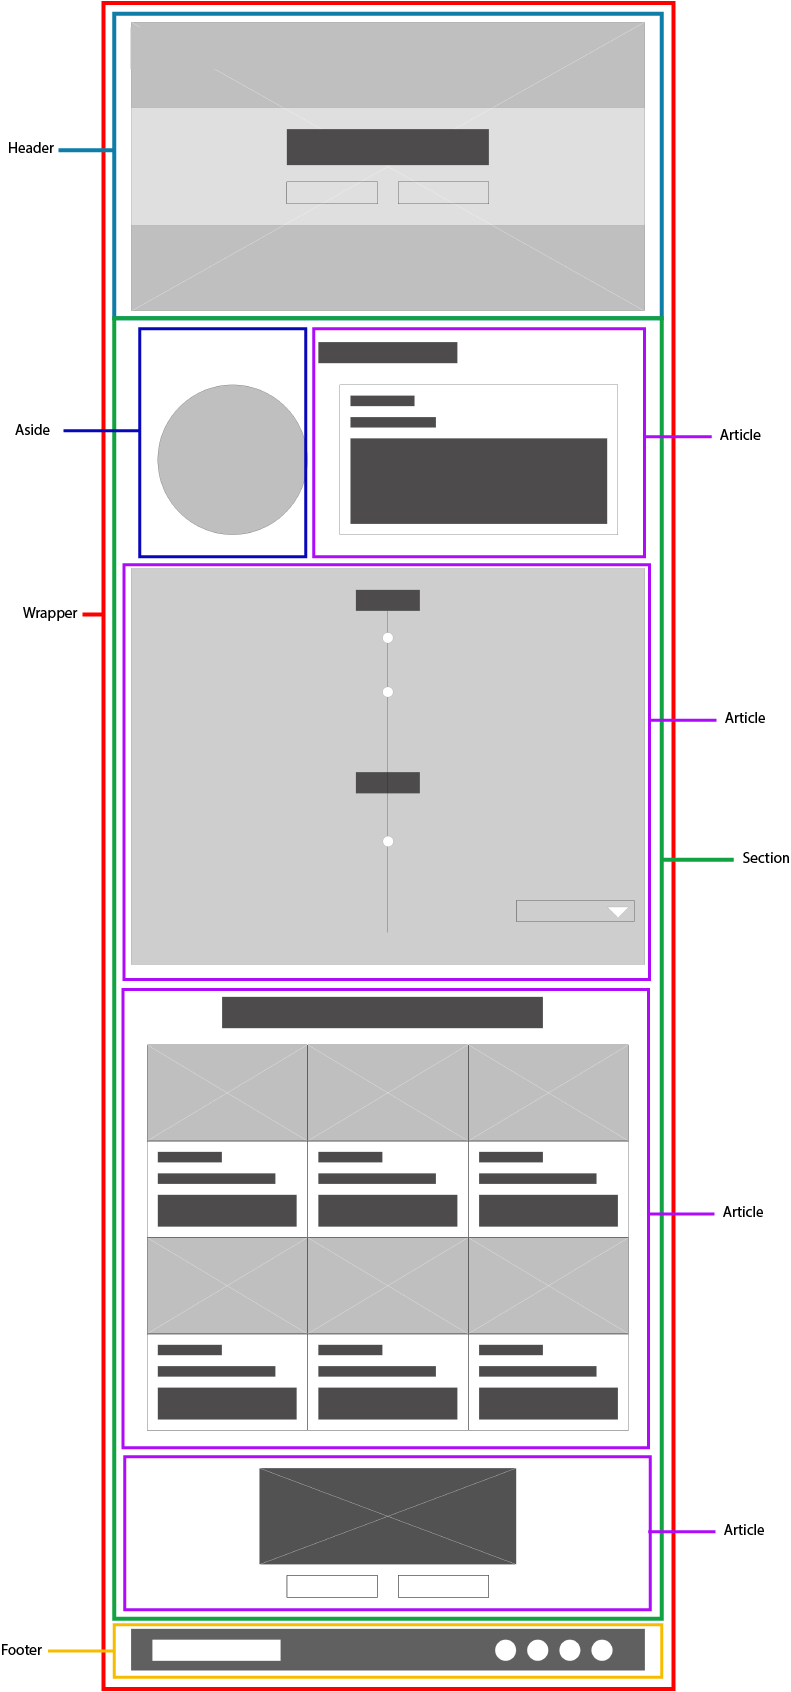
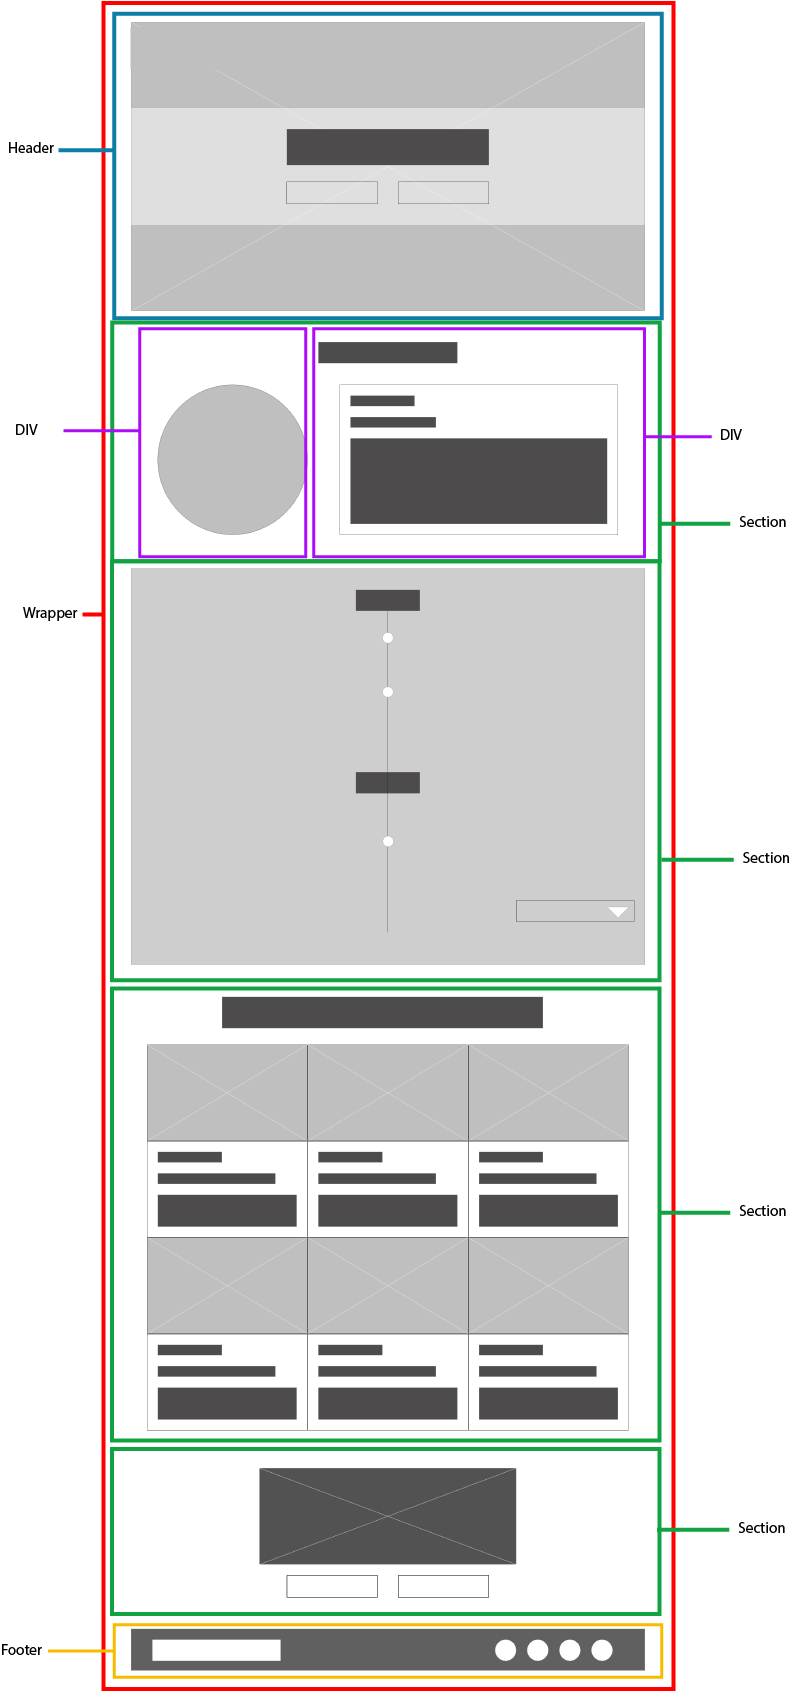
edits to unit 5

Changed region(s): [[0.1214, 0.1844, 0.9709, 0.9835], [0.9102, 0.2459, 0.9406, 0.2766], [0.0303, 0.2459, 0.0607, 0.2766]]

diff --git a/unit_5/index.html b/unit_5/index.html
@@ -22,12 +22,12 @@
 
 	<section>
 
-		<aside class="image">
+		<div class="image">
 			<img width=150 height= auto src="images/circle.png" atl="Daley" title="this is me">
-		</aside>
+		</div>
 
 
-		<article>	
+		<div class="bio">	
 			<h2>CREATIVITY IS MY PASSION!</h2>
 				<p>I love using my skills to turn something boring into beautiful. I am a graduate from Georgia State University. I have a bachelors degree in art, focusing on graphic design, and a minor in marketing. I have been working in the design field since 2015 gaining a lot of experience. I love any type of work that challenges my creative side.</p>
 			<ul>
@@ -37,12 +37,14 @@
 			</ul>
 				<p class="contact"><a href="mailto:daleyweb@bellsouth.net">contact me!</a></p>
 
-		</article>
+		</div>
 
 	</section>
 
+
+
 	<section class="timeline">
-		<article>
+
 			<h1>Timeline</h1>
 				<h2>2014</h2>
 					<h3>Cellairis</h3>	
@@ -55,13 +57,12 @@
 						<p>Held my first job with Kumho Tire USA where I was the Brand and Creative Designer. Here I worked with the NBA, created multiple online ads, instore sales collateral, billboards and much more.</p>
 				<h2>2016-Current</h2>
 					<h3>Incentive Solutions</h3>
-						<p>Currently I am the lead design. I get to manage all projects that come in creatives hands. I handle things from marketing, travel, client, product development. These roles include web design and coding, email design and coding, travel collateral for top clients, brochures, etc.</p>
-		</article>		
+						<p>Currently I am the lead design. I get to manage all projects that come in creatives hands. I handle things from marketing, travel, client, product development. These roles include web design and coding, email design and coding, travel collateral for top clients, brochures, etc.</p>	
 	</section>
+	
 
 	<section class="portfolio">
 		
-		<article>
 			<h1>projects</h1>
 				<h2>Illustartions</h2>
 					<img width=150 height= auto src="images/Buzz.png" atl="drunk bee" title="illustartion of a bee drinking moonshine">
@@ -78,17 +79,14 @@
 
 				<h2>Invitations</h2>
 					<img width=500 height= auto src="images/Invites.png" atl="wedding invite" title="rustic wedding invitaion and RSVP cards">
-		</article>
 
 	</section>
 
-	<section class="thank you">
+	<section class="thankyou">
 
-		<article>
 			<h1>Thank you!</h1>	
 				<h2>Hire Me!</h2>
-				<h2>Check out my resume!</h2>
-		</article>			
+				<h2>Check out my resume!</h2>		
 	
 	</section>
 

diff --git a/unit_5/css/style.css b/unit_5/css/style.css
@@ -1,4 +1,5 @@
 @import url('https://fonts.googleapis.com/css?family=Fjalla+One|Lato');
+
 body {
 	color: #3A405A; 
 	font-family: helvetica; 
@@ -8,16 +9,19 @@ header {
 	border: 1px black solid;
 	padding: 20px;
 }
-aside{
-	background-color: #ffc675;
-	border:1px black solid;
-	padding: 20px;
-}
-article {
-	background-color: #e89c6c;
+
+section {
+	background-color:  #FFE2B8;
 	border: 1px black solid;
 	padding: 20px;
 }
+
+div {
+	background-color:  #FFE2B8;
+	border: 1px black solid;
+	padding: 20px;
+}
+
 footer {
 	background-color: #ff957e;
 	border: 1px black solid;
@@ -28,7 +32,7 @@ p {
 	font-family: 'Lato', sans-serif;
 }
 .top {
-	    background-image: url(../images/vwbus.jpg);
+	background-image: url(../images/vwbus.jpg);
     background-size: cover;
     background-repeat: no-repeat;
     height: 600px;
